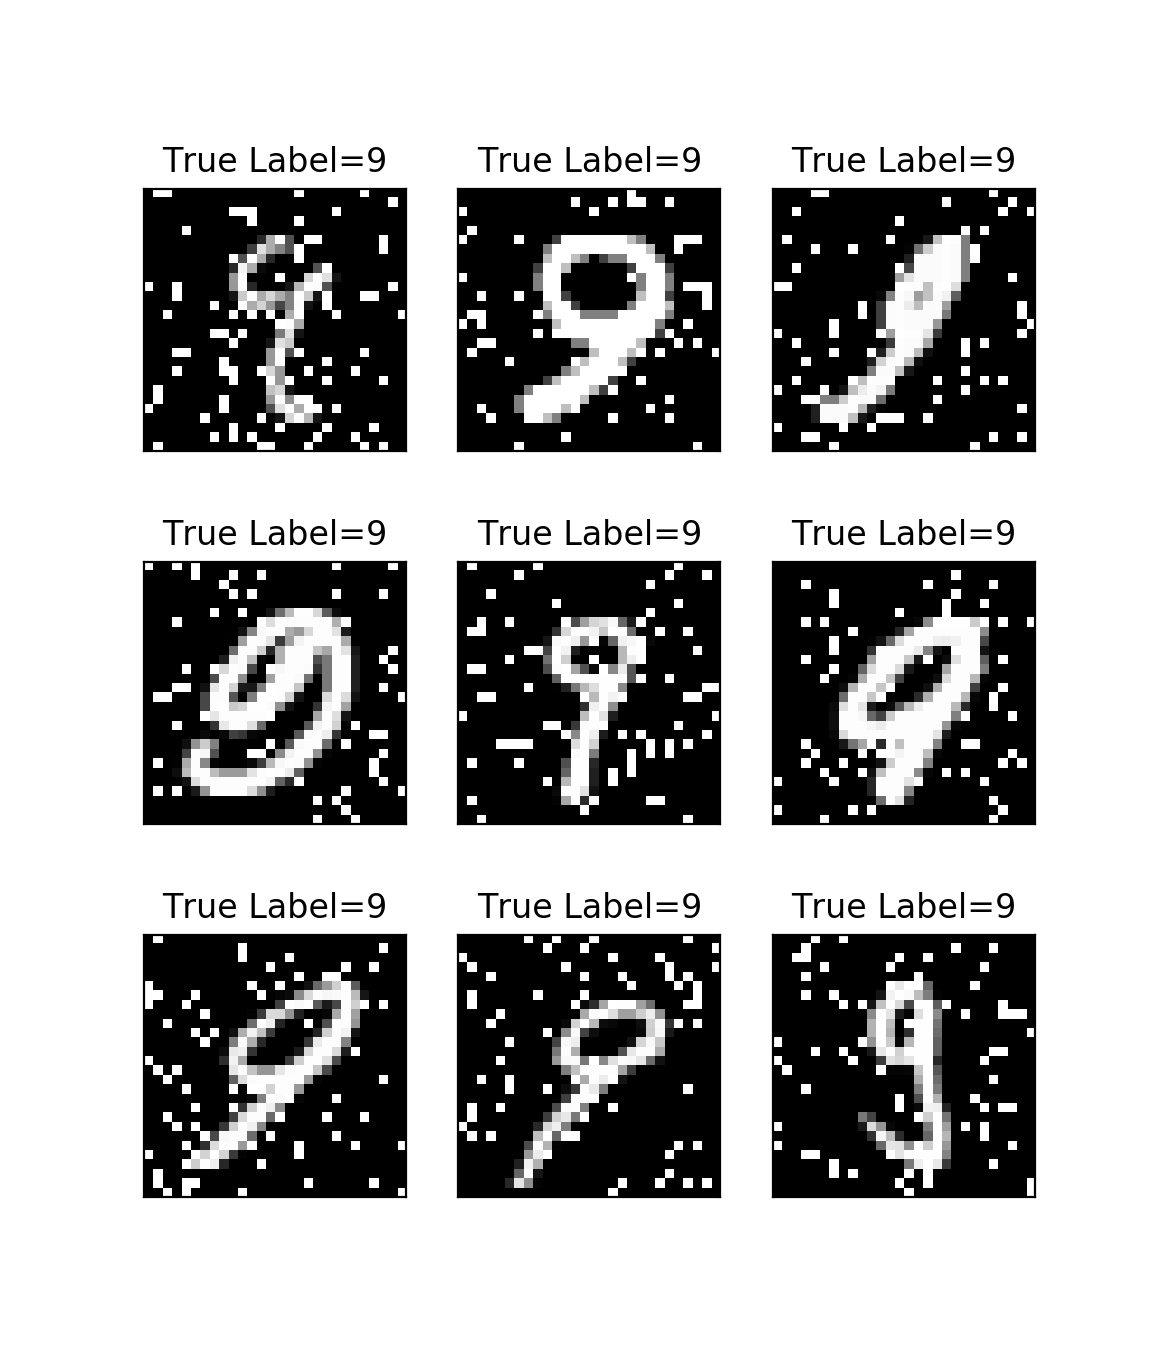
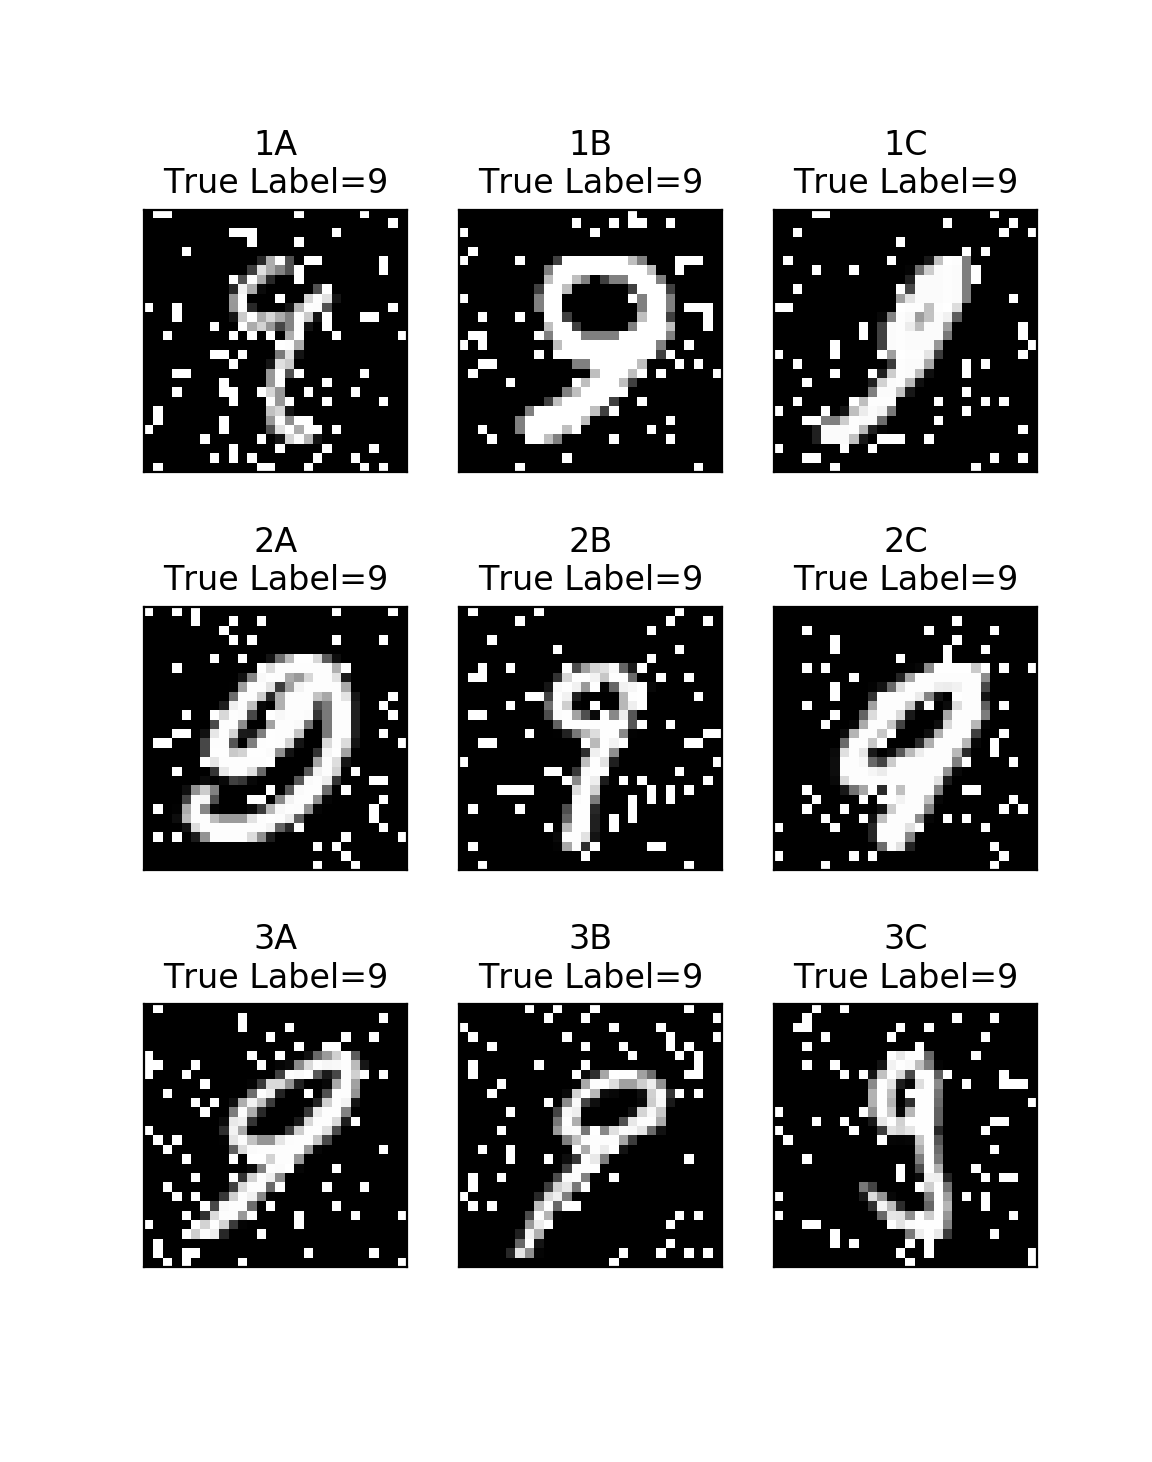
Finished justification for 1D

diff --git a/p1/show_images.py b/p1/show_images.py
@@ -32,6 +32,15 @@ def labelDisplay(y_label):
         return "Unknown"
 
 
+def rowDisplay(row):
+    return str(row + 1)
+
+
+def colDisplay(col):
+    # 65 == 'A' in ASCII
+    return chr(col + 65)
+
+
 def show_images(X, y, row_ids, n_rows=3, n_cols=3):
     ''' Display images
 
@@ -53,7 +62,9 @@ def show_images(X, y, row_ids, n_rows=3, n_cols=3):
         cur_ax.imshow(X[row_id].reshape(28, 28), interpolation='nearest', vmin=0, vmax=1, cmap='gray')
         cur_ax.set_xticks([])
         cur_ax.set_yticks([])
-        cur_ax.set_title(f'True Label={labelDisplay(y[row_id])}')
+        row = ii // n_cols
+        col = ii % n_rows
+        cur_ax.set_title(f'{rowDisplay(row)}{colDisplay(col)}\nTrue Label={labelDisplay(y[row_id])}')
     plt.show()
 
 
@@ -73,10 +84,10 @@ if __name__ == '__main__':
 
     dataset_path = args.dataset_path
 
-    x_df = pd.read_csv(os.path.join(path, dataset_path, 'x_valid.csv'))
+    x_df = pd.read_csv(os.path.join(path, dataset_path, 'x_train.csv'))
     x_NF = x_df.values
 
-    y_df = pd.read_csv(os.path.join(path, dataset_path, 'y_valid.csv'))
+    y_df = pd.read_csv(os.path.join(path, dataset_path, 'y_train.csv'))
     y_N = y_df.values
 
     show_images(x_NF, y_N, row_ids_to_show, args.n_rows, args.n_cols)

diff --git a/p1/p1.md b/p1/p1.md
@@ -21,4 +21,18 @@ These plots illustrate the performance of our models as the number of training i
 
 ## Figure 1D : Produce two plots, one consisting of 9 sample images that are false positives on the validation set, and one consisting of 9 false negatives.
 
+![1D_false_positive.png](1D_false_positive.png)
+![1D_false_negative.png](1D_false_negative.png)
+
 ## Short Answer 1D: Discuss the results you are seeing in Figure 1D. What kinds of mistakes is the classifier making?
+
+In the case of false positives, the classifier gets confused when:
+
+- The lower loop of the eight is precariously thin/small (1B, 1C, 2A, 2B, 3A, 3B).
+- There's a gap in one of the loops (1A, 1C, 3C).
+
+In the case of false negatives, the classifier gets confused when:
+
+- The down-stroke of the nine is angled on a diagonal (1B, 1C, 2B, 2C, 3A, 3B)
+- The down-stroke of the nine ends in a curly flourish (1A, 2A, 3C)
+- And when the main loop of the nine is inordinately large (1B, 2A, 2C)
